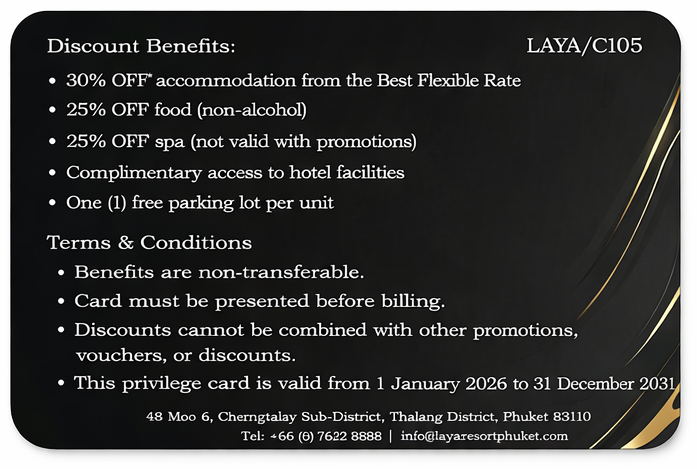
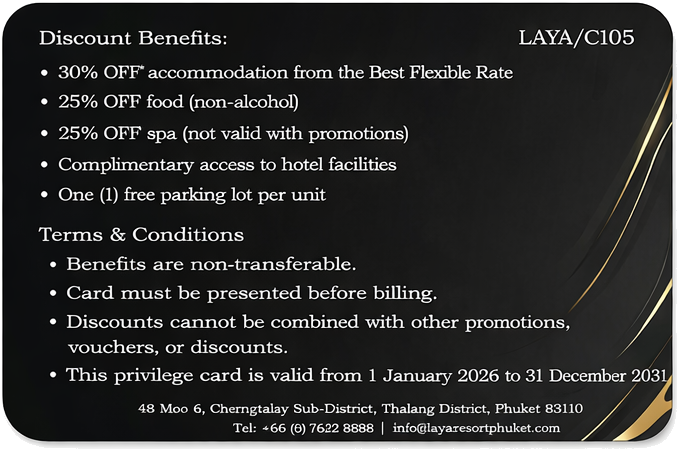
Add files via upload

diff --git a/assets/js/ui/card-flip.js b/assets/js/ui/card-flip.js
@@ -1,3 +1,4 @@
+
 import { $$ } from '../core/dom.js';
 
 function setSide(card, side) {
@@ -6,12 +7,57 @@ function setSide(card, side) {
   const frontBtn = card.querySelector('[data-card-side="front"]');
   const backBtn = card.querySelector('[data-card-side="back"]');
   const label = card.querySelector('[data-card-label]');
+  const downloadBtn = card.querySelector('[data-card-download]');
   const isBack = side === 'back';
   flipInner?.classList.toggle('is-flipped', isBack);
   frontBtn?.classList.toggle('active', !isBack);
   backBtn?.classList.toggle('active', isBack);
   if (label) label.textContent = isBack ? 'Back view' : 'Front view';
+  if (downloadBtn) {
+    downloadBtn.textContent = isBack ? 'Download back image' : 'Download front image';
+  }
   card.dataset.side = side;
+}
+
+function toggleSide(card) {
+  const nextSide = card.dataset.side === 'back' ? 'front' : 'back';
+  setSide(card, nextSide);
+}
+
+function bindTilt(scene) {
+  if (!scene) return;
+
+  const resetTilt = () => {
+    scene.style.setProperty('--tilt-x', '0deg');
+    scene.style.setProperty('--tilt-y', '0deg');
+  };
+
+  scene.addEventListener('mousemove', (event) => {
+    if (window.matchMedia('(pointer: coarse)').matches) return;
+    const rect = scene.getBoundingClientRect();
+    const px = (event.clientX - rect.left) / rect.width;
+    const py = (event.clientY - rect.top) / rect.height;
+    const tiltY = (px - 0.5) * 10;
+    const tiltX = (0.5 - py) * 8;
+    scene.style.setProperty('--tilt-x', `${tiltX.toFixed(2)}deg`);
+    scene.style.setProperty('--tilt-y', `${tiltY.toFixed(2)}deg`);
+  });
+
+  scene.addEventListener('mouseleave', resetTilt);
+  scene.addEventListener('blur', resetTilt);
+}
+
+function downloadCurrentSide(card) {
+  const side = card.dataset.side === 'back' ? 'back' : 'front';
+  const img = card.querySelector(`.elite-card-${side} img`);
+  const src = img?.getAttribute('src');
+  if (!src) return;
+  const link = document.createElement('a');
+  link.href = src;
+  link.download = `laya-elite-black-card-${side}.png`;
+  document.body.appendChild(link);
+  link.click();
+  link.remove();
 }
 
 export function bindFlipCards() {
@@ -24,18 +70,24 @@ export function bindFlipCards() {
     const frontBtn = card.querySelector('[data-card-side="front"]');
     const backBtn = card.querySelector('[data-card-side="back"]');
     const toggleBtn = card.querySelector('[data-card-toggle]');
+    const downloadBtn = card.querySelector('[data-card-download]');
 
     frontBtn?.addEventListener('click', () => setSide(card, 'front'));
     backBtn?.addEventListener('click', () => setSide(card, 'back'));
-    toggleBtn?.addEventListener('click', () => {
-      const nextSide = card.dataset.side === 'back' ? 'front' : 'back';
-      setSide(card, nextSide);
-    });
-    flipInner?.addEventListener('click', () => {
-      const nextSide = card.dataset.side === 'back' ? 'front' : 'back';
-      setSide(card, nextSide);
+    toggleBtn?.addEventListener('click', () => toggleSide(card));
+    downloadBtn?.addEventListener('click', () => downloadCurrentSide(card));
+
+    flipInner?.addEventListener('click', () => toggleSide(card));
+    flipInner?.addEventListener('keydown', (event) => {
+      if (event.key === 'Enter' || event.key === ' ') {
+        event.preventDefault();
+        toggleSide(card);
+      }
+      if (event.key === 'ArrowLeft') setSide(card, 'front');
+      if (event.key === 'ArrowRight') setSide(card, 'back');
     });
 
+    bindTilt(flipInner);
     setSide(card, card.dataset.defaultSide || 'front');
   });
 }

diff --git a/assets/css/components.css b/assets/css/components.css
@@ -505,8 +505,15 @@ body.lightbox-open {
   overflow: hidden;
 }
 
+
 .card-showcase {
   display: grid;
+  gap: 14px;
+}
+
+.card-action-row {
+  display: grid;
+  grid-template-columns: repeat(2, minmax(0, 1fr));
   gap: 12px;
 }
 
@@ -525,6 +532,7 @@ body.lightbox-open {
   border-radius: 999px;
   background: rgba(255,255,255,.04);
   border: 1px solid rgba(255,255,255,.08);
+  box-shadow: inset 0 1px 0 rgba(255,255,255,.06);
 }
 
 .compact-btn {
@@ -534,32 +542,62 @@ body.lightbox-open {
 }
 
 .compact-btn.active {
-  background: linear-gradient(180deg, rgba(216,188,124,.22), rgba(216,188,124,.08));
+  background: linear-gradient(180deg, rgba(216,188,124,.26), rgba(216,188,124,.10));
   color: var(--text);
-  border: 1px solid rgba(216,188,124,.22);
+  border: 1px solid rgba(216,188,124,.28);
+  box-shadow: 0 10px 24px rgba(216,188,124,.12), inset 0 1px 0 rgba(255,255,255,.06);
 }
 
 .elite-card-scene {
+  --tilt-x: 0deg;
+  --tilt-y: 0deg;
   position: relative;
   width: 100%;
   aspect-ratio: 1.6 / 1;
   border-radius: 32px;
   transform-style: preserve-3d;
-  perspective: 1600px;
+  perspective: 2200px;
   cursor: pointer;
+  transform: translateY(0) rotateX(var(--tilt-x)) rotateY(var(--tilt-y));
+  transition: transform .35s ease, filter .35s ease;
+  will-change: transform;
+  isolation: isolate;
 }
 
 .elite-card-scene.large {
-  max-width: 700px;
+  max-width: 720px;
+}
+
+.elite-card-scene:hover,
+.elite-card-scene:focus-visible {
+  transform: translateY(-3px) rotateX(var(--tilt-x)) rotateY(var(--tilt-y));
+  filter: drop-shadow(0 22px 42px rgba(0,0,0,.34));
+}
+
+.elite-card-scene::before {
+  content: '';
+  position: absolute;
+  inset: 0;
+  border-radius: 32px;
+  background:
+    radial-gradient(circle at top right, rgba(255,240,188,.18), transparent 22%),
+    linear-gradient(120deg, transparent 12%, rgba(255,255,255,.11) 50%, transparent 82%);
+  opacity: .55;
+  transform: translateZ(16px);
+  pointer-events: none;
+  mix-blend-mode: screen;
 }
 
 .elite-card-scene::after {
   content: '';
   position: absolute;
-  inset: 0;
-  border-radius: 32px;
-  box-shadow: 0 18px 42px rgba(0,0,0,.38);
+  inset: 4% 3% -2% 3%;
+  border-radius: 40px;
+  background: radial-gradient(circle at center, rgba(216,188,124,.18), rgba(0,0,0,0) 66%);
+  filter: blur(22px);
+  opacity: .9;
   pointer-events: none;
+  z-index: -1;
 }
 
 .elite-card-face {
@@ -569,15 +607,19 @@ body.lightbox-open {
   overflow: hidden;
   backface-visibility: hidden;
   transform-style: preserve-3d;
-  transition: transform .7s ease;
-  border: 1px solid rgba(216,188,124,.18);
+  transition: transform 1s cubic-bezier(.22, 1, .36, 1), filter .45s ease;
+  border: none;
+  background: transparent;
 }
 
 .elite-card-face img {
   width: 100%;
   height: 100%;
   display: block;
-  object-fit: cover;
+  object-fit: contain;
+  filter: drop-shadow(0 18px 32px rgba(0,0,0,.28));
+  user-select: none;
+  -webkit-user-drag: none;
 }
 
 .elite-card-back {
@@ -631,7 +673,6 @@ body.lightbox-open {
   background: rgba(255,255,255,.04);
   border: 1px solid rgba(255,255,255,.08);
 }
-
 @media (max-width: 980px) {
   .resident-card-hero {
     grid-template-columns: 1fr;
@@ -658,8 +699,13 @@ body.lightbox-open {
     padding: 9px 12px;
   }
 
+  .card-action-row {
+    grid-template-columns: 1fr;
+  }
+
   .elite-card-face,
   .elite-card-scene,
+  .elite-card-scene::before,
   .elite-card-scene::after {
     border-radius: 24px;
   }

diff --git a/index.html b/index.html
@@ -59,7 +59,10 @@
               <img src="./assets/images/elite-black-card-back.png" alt="LAYA Elite Black Card back" />
             </div>
           </div>
-          <button type="button" class="secondary-btn full-btn mt-sm" data-card-toggle>Change front / back</button>
+          <div class="card-action-row mt-sm">
+            <button type="button" class="secondary-btn full-btn" data-card-toggle>Change front / back</button>
+            <button type="button" class="ghost-btn full-btn" data-card-download>Download card image</button>
+          </div>
         </div>
       </section>
 

diff --git a/resident.html b/resident.html
@@ -53,6 +53,7 @@
             <div class="row gap wrap mt-md">
               <span class="badge-inline"><span>View</span><strong data-card-label>Front view</strong></span>
               <button type="button" class="secondary-btn" data-card-toggle>Change front / back</button>
+              <button type="button" class="ghost-btn" data-card-download>Download card image</button>
             </div>
           </div>
 

diff --git a/README.md b/README.md
@@ -93,3 +93,9 @@ Notes:
 
 ## New in this build
 - Detail pages support fullscreen lightbox viewing for gallery images.
+
+
+## Card UI update
+- Premium smooth flip effect
+- White background removed from card artwork
+- Download current card side from Home and Resident pages
